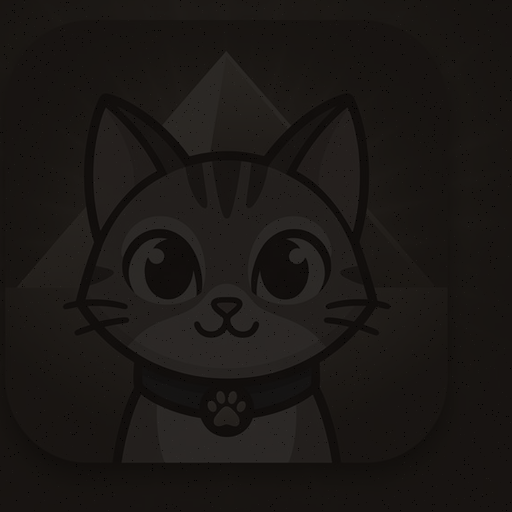
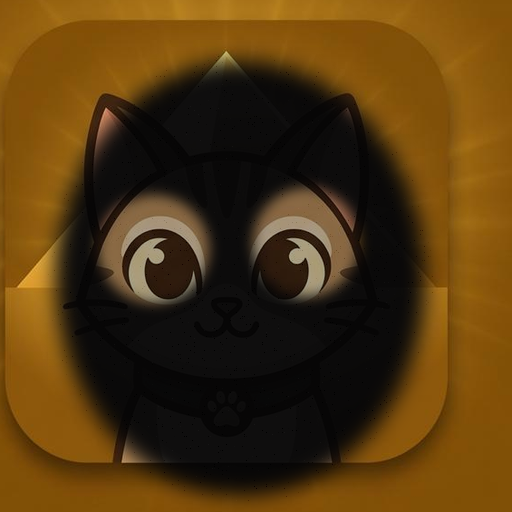
Make the soot progression actually turn the cat's fur black
Previous soot stages just uniformly darkened/desaturated the whole
icon (cat and pyramid background together), so the final stage read as
"dim and grey," not "her fur is filthy." Reworked per user feedback
(reference photo of a black cat) so only the cat's fur is masked and
darkened stage by stage while the golden pyramid background stays lit,
and the eyes are kept close to their original brightness throughout —
by stage 4 the fur is essentially black with the eyes as the visible
focal point, matching the reference image's look.

Claude-Session: https://claude.ai/code/session_01639R5gUcEepxNrgVUR129S

diff --git a/mobile/README.md b/mobile/README.md
@@ -118,11 +118,15 @@ verarbeitet mit Pillow (Python), Skript nicht Teil des Repos:
   Padding für die System-Maskierung) sollte später ein echter Icon-Export
   aus dem Original-Design nachgereicht werden.
 - `assets/mascot/soot-0.png` … `soot-4.png`: dieselbe Icon-Kachel,
-  programmatisch mit zunehmender Entsättigung + Abdunkelung + leichtem
-  Korn-Rauschen zu einer "Ruß"-Stufe verarbeitet (siehe `CatAvatar.tsx`).
-  Das sind **keine zusätzlichen handgezeichneten Varianten** — falls später
-  echte Illustrationen für jede Stufe entstehen, ersetzen sie einfach diese
-  Dateien 1:1.
+  programmatisch zu 5 "Ruß"-Stufen verarbeitet — bei Stufe 4 ist das Fell
+  fast vollständig schwarz (angelehnt an ein Referenzfoto einer schwarzen
+  Katze), die Augen bleiben bewusst hell/ausgespart, und nur die
+  Katzen-Silhouette wird abgedunkelt, nicht der goldene Pyramiden-
+  Hintergrund (Masken + zunehmende Entsättigung/Abdunkelung/Korn, siehe
+  `CatAvatar.tsx`). Das sind **keine zusätzlichen handgezeichneten
+  Varianten**, sondern ein Bildfilter über demselben Ausgangsbild — falls
+  später echte Illustrationen für jede Stufe entstehen, ersetzen sie
+  einfach diese Dateien 1:1.
 - `assets/mascot/story-standing.png` / `story-lying.png`: Zuschnitt der
   "Stehend – Vorderansicht" bzw. "Liegend – Vorderansicht"-Kacheln aus dem
   Original-Konzeptbild, unverändert.
